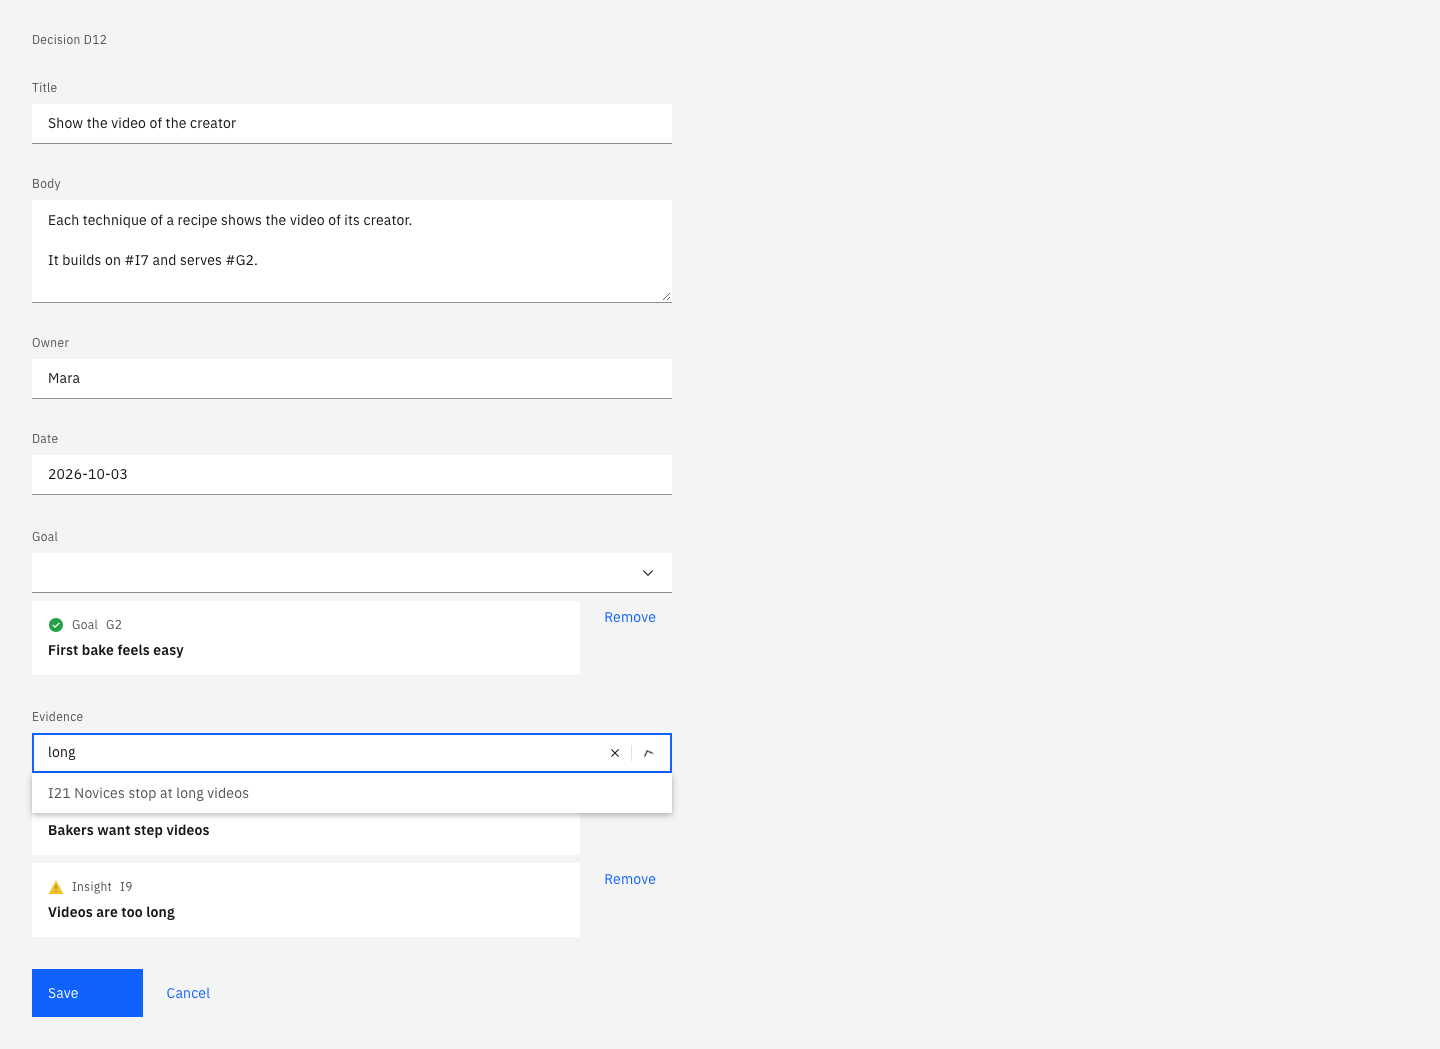
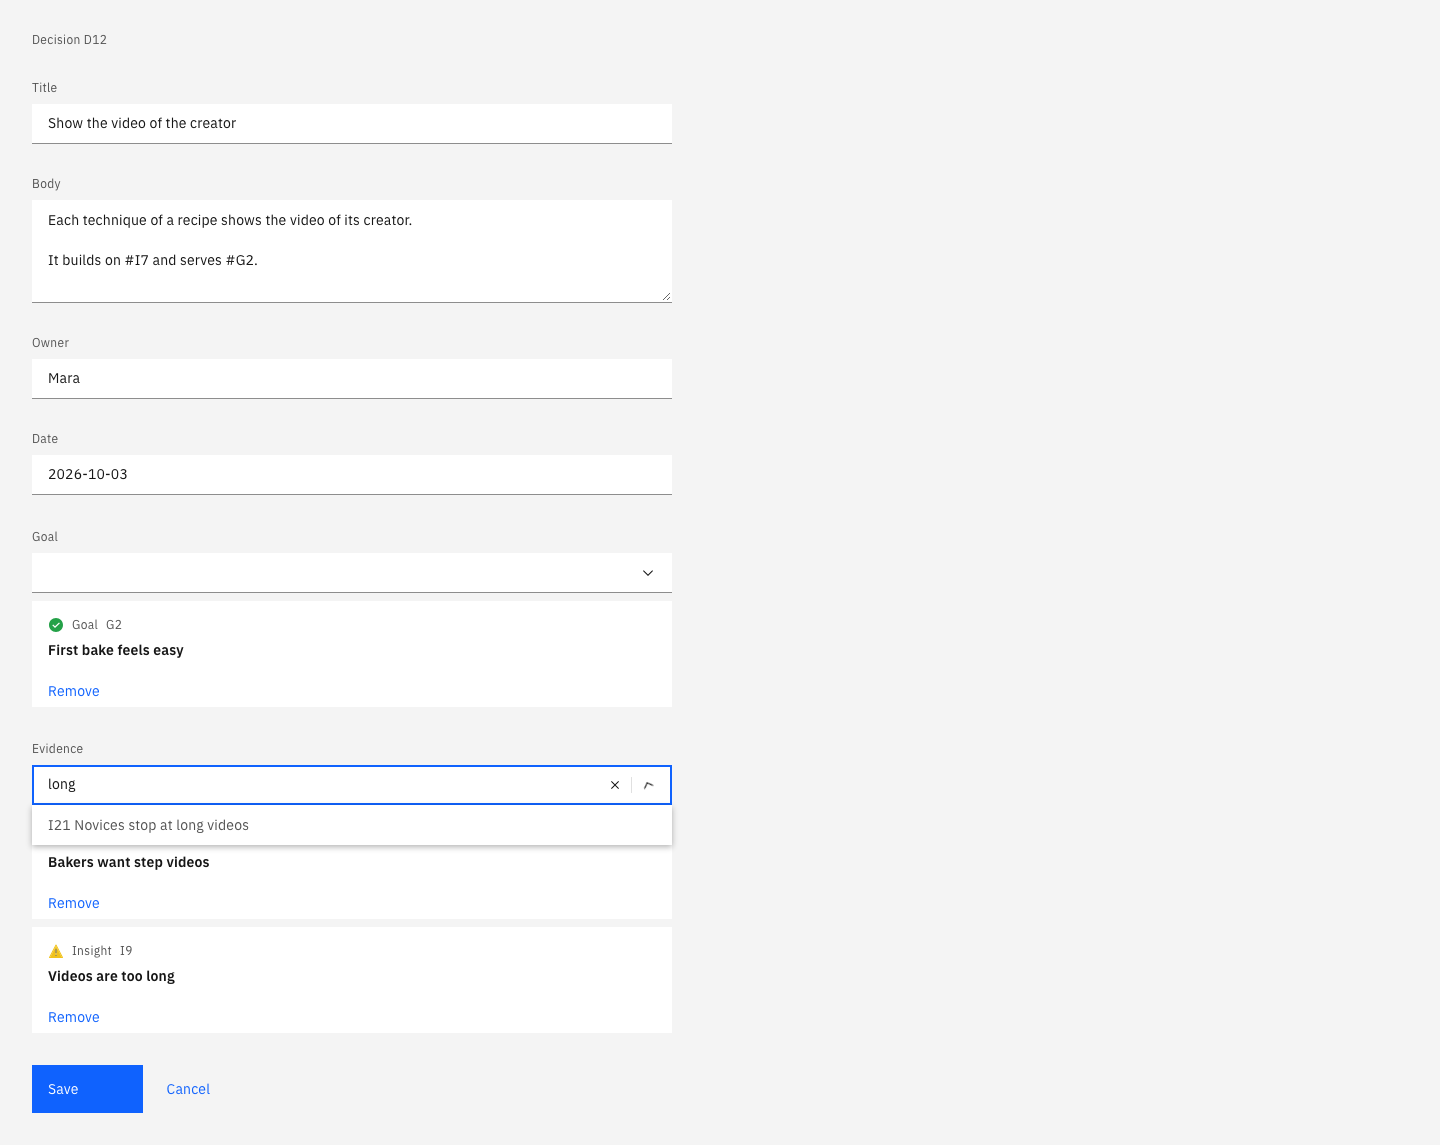
refactor(design-system): put the remove control of a pick in its card
The minimal card holds an action since #172. The Part form uses that
action and drops its own button and layout beside the card.

Refs #174
Decision: D33

diff --git a/src/design-system/part-form.test.tsx b/src/design-system/part-form.test.tsx
@@ -343,9 +343,7 @@ describe('PartForm', () => {
 
     expect(within(first).getAllByRole('button')).toHaveLength(1)
 
-    await userEvent.click(
-      within(first).getByRole('button', { name: 'Remove I7' }),
-    )
+    await userEvent.click(within(first).getByRole('button', { name: 'Remove' }))
 
     expect(picks('Evidence')).toEqual(['Videos are too long'])
 
@@ -358,7 +356,7 @@ describe('PartForm', () => {
     renderForm()
 
     await pick('Evidence', 'I7', 'I7 Bakers want step videos')
-    await userEvent.click(screen.getByRole('button', { name: 'Remove I7' }))
+    await userEvent.click(screen.getByRole('button', { name: 'Remove' }))
     await pick('Evidence', 'I7', 'I7 Bakers want step videos')
 
     expect(picks('Evidence')).toEqual(['Bakers want step videos'])
@@ -379,7 +377,7 @@ describe('PartForm', () => {
 
     expect(saveButton().disabled).toBe(false)
 
-    await userEvent.click(screen.getByRole('button', { name: 'Remove G2' }))
+    await userEvent.click(screen.getByRole('button', { name: 'Remove' }))
 
     expect(picks('Goal')).toEqual([])
     expect(saveButton().disabled).toBe(true)

diff --git a/src/design-system/part-form.tsx b/src/design-system/part-form.tsx
@@ -171,7 +171,7 @@ function PartPicker({
       {pickedParts.length > 0 && (
         <ul aria-label={label} className={styles.picks}>
           {pickedParts.map((part) => (
-            <li key={part.id} className={styles.pick}>
+            <li key={part.id}>
               <Card
                 minimal
                 type={part.type}
@@ -180,15 +180,8 @@ function PartPicker({
                 trust={part.trust}
                 href={part.href}
                 onOpen={onOpen && ((event) => onOpen(part.id, event))}
+                action={{ label: 'Remove', onClick: () => onRemove(part.id) }}
               />
-              <Button
-                kind="ghost"
-                size="sm"
-                aria-label={`Remove ${part.id}`}
-                onClick={() => onRemove(part.id)}
-              >
-                Remove
-              </Button>
             </li>
           ))}
         </ul>

diff --git a/src/design-system/part-form.module.scss b/src/design-system/part-form.module.scss
@@ -29,18 +29,6 @@ $text-width: $spacing-13 * 4;
   gap: $spacing-03;
 }
 
-// The card takes the room that the control to remove it leaves.
-.pick {
-  display: flex;
-  align-items: flex-start;
-  gap: $spacing-03;
-
-  > :first-child {
-    flex: 1;
-    min-inline-size: 0;
-  }
-}
-
 .buttons {
   display: flex;
   gap: $spacing-03;
